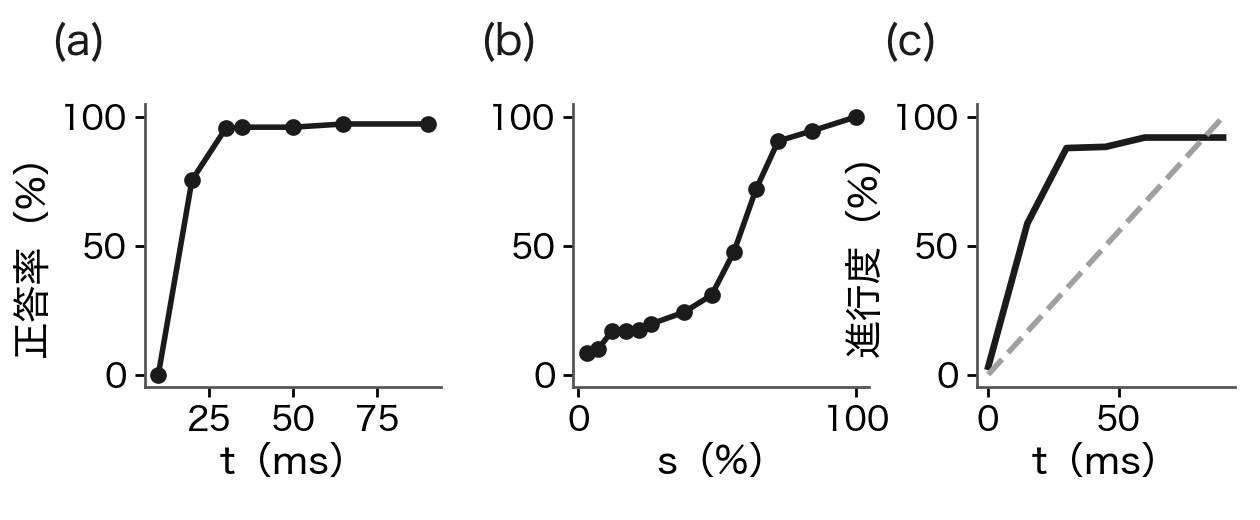
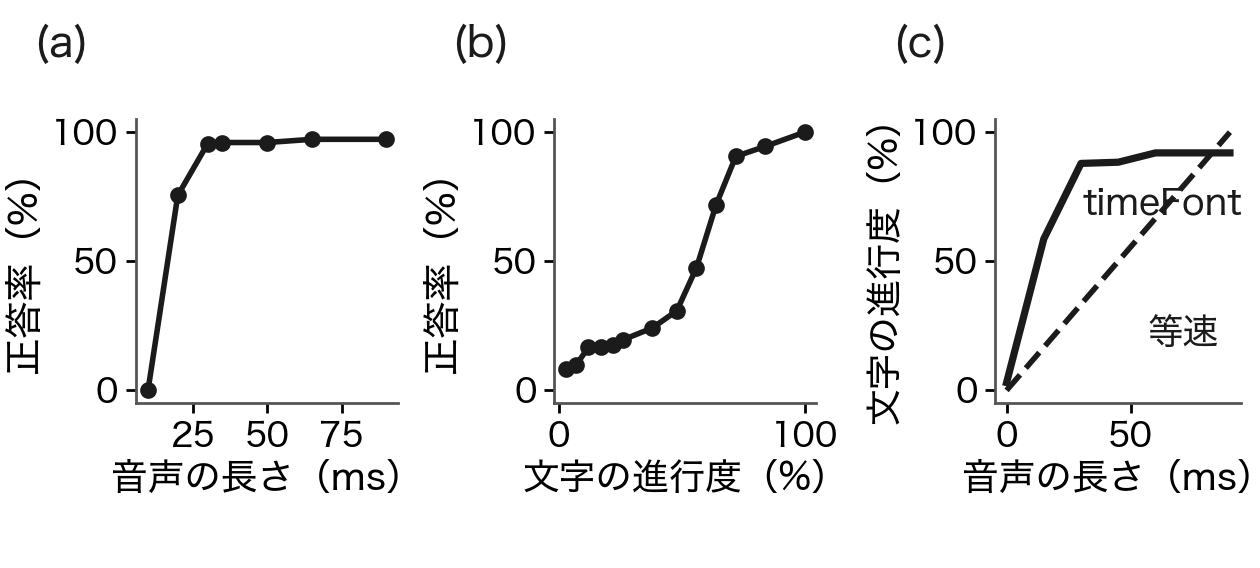
WISS 投稿版の図を作り直し、作業ログを更新
図1: 「システムの入出力」から「音声と文字の識別度合いを同じ高さで結ぶ」絵に変更。
  実測値（「ま」×ぼかし解除、音声 60 ms → 81% → 進行度 65%）。
図2: 縦横を入れ替え（横に 4 方式、縦に 5 段階）。コマを 0.47→0.61 インチに拡大し、
  画素を平滑化しない描画にして部分表示のザラザラが見えるようにした。
図3・図4: 灰色をやめて黒に統一。軸ラベルを日本語にし、線のラベルが線に重ならない位置へ。

WORKLOG に、先生のコメント 26 件への対応、章立ての組み替え、参考文献の整理、
docx を直すときのハマりポイント 7 件を記録した。

Claude-Session: https://claude.ai/code/session_015YDXeF6NSsLQicneScy5QN

diff --git a/WORKLOG.md b/WORKLOG.md
@@ -3,6 +3,90 @@
 > セッションをまたぐ作業状態の記録。プロジェクトの全履歴は `project/project_log_260723.md`、
 > セットアップと全体像は `project/handover_260723.md` を参照。
 
+## 2026-08-31〜09-01 WISS 2026 投稿版：先生のコメント対応・章立ての組み替え・図の作り直し
+
+### 現在の状態
+- **最新の原稿は `~/Desktop/timeFont：文字の識別過程をデザインできる動的フォントv15_k.docx`**（デスクトップ直下。
+  `Desktop/timeFont/` フォルダの中ではない）。先生が承諾・追記した版に、こちらの直しを重ねた状態。
+- 題名は **timeFont：文字の識別過程をデザインできる動的フォント**。柱（ヘッダ）と文書プロパティも同じにそろえた。
+- 章立ては先生と決めた流れに組み替え済み:
+  1 はじめに / 2 関連研究 / 3 timeFont とは / 4 timeFont を作るための測定 /
+  5 timeFont の作成 / 6 作成した timeFont の評価 / 7 使うためのツールと実装例 / 8 まとめと今後の展望
+- 参考文献は 15 件。引用のない文献・存在しない番号への参照ともにゼロ。
+- 図は 5 枚。出る順と番号が一致（図1 1章 / 図2 4.1 / 図3 5.4 / 図4 6章 / 図5 7.1）。
+
+### 次にやること
+- ページ数の確認と調整（丸山さんが対応中）。溢れる場合の縮め方:
+  図1 は下のコマ列を外すと 2.77→1.9 インチ、図2 は横並びに戻すと 3.92→2.6 インチ。
+- 片桐ほか（1986）の原文を開いて、本文の記述と一致するか確認（先生の指摘・未対応）。
+- デモ動画（`~/Desktop/timeFont_WISS_2026_動画.pptx` を作成中）。
+
+### やったこと（先生のコメント 26 件への対応）
+- **[2][4] 題名と用語**: 「識別過程に応じて変化する」→「識別過程をデザインできる」。
+  概要と 1 章も「見え方を時間とともに変えることで、文字の識別過程をデザインできる」に。
+  「本論文では、この時間変化を識別過程と呼ぶ」と定義であることを明示。
+- **[3] 1 章の書き出し**: かるたを先、ドラマ字幕を後に（丸山さんが自分で書き直し）。
+- **[23] 章の位置づけ**: 1 章の末尾に 2〜8 章で何をするかを追加。7 章冒頭に実験の目的を追加。
+- **[25] Thurstone Case V**: 削除していたものを戻し、Perez-Ortiz [10] を引いて
+  「どちらが選ばれたかの回数から 16 条件を 1 本の目盛りの上に並べ直す方法」と一言の説明を追加。
+  結果側にも「尺度値でも情報量にもとづく条件が上位に…」の 1 文を追加。
+- **[26] 8 章**: 「対応データを測るときに気をつける点は…」の段落を丸ごと削除。
+  8 章は「まとめと今後の展望」に。まとめ 1 段落＋展望 1 段落（丸山さんの原文をそのまま採用）。
+- **[8] 図2**: コマを 0.47→0.61 インチに拡大。画素を平滑化しない描画（`interpolation="nearest"`）に変更。
+  さらに縦横を入れ替え（横に 4 方式、縦に 5 段階）、左に進行の矢印。
+- **[9] MCP**: 「MCP サーバも用意しており、対話型 AI から…」（サーバとクライアントの向きを訂正）。
+- **[17][19] 数式**: 空の OMML（数式エディタの残骸）を削除。v2_k で失われていた
+  `A_i(t)` `V_i(s)` を v1_m から復元。数式は 9 個。
+- **[5][6][7][12][13][18][20][21][22][24]**: 用語と表記（目盛り→測った値、全長→最後まで、
+  各時点→各提示時点、群の記号 Acal/A′ を廃止、1 文字はカギカッコ、KL の説明追加）。
+
+### 図の作り直し
+- **図1**: 「システムの入出力」から「音声と文字の識別度合いを同じ高さで結ぶ」絵に全面変更。
+  上に音声（横軸 時間）、下に文字（横軸 進行度）、共通の縦軸「識別度合い」。
+  同じ 81% の高さを点線と縦の矢印で結び、下に進行度に沿ったコマ列（矢印つき、該当コマを太枠）。
+  実測値（「ま」×ぼかし解除、音声 60 ms → 81% → 進行度 65%）。スクリプト: `fig1_v5.py`（scratchpad）。
+- **図3・図4**: 灰色をやめて全部黒に。線は実線・破線・点線で見分ける。
+  軸ラベルを日本語に（音声の長さ／文字の進行度）。線のラベルが線に重ならない位置へ。
+  図4(c) の数字に「進行度」を付けた。スクリプト: `fig3_v2.py` `fig4_v2.py`（scratchpad）。
+
+### 組版
+- 変数 `t` `s` `c` を斜体に統一（5 か所が立体のままだった）。`A` `B` は一対比較の選択肢なので立体のまま。
+- 数字のフォントを Century（文書の標準）に統一。Times New Roman 指定が 128 か所あったので外した。
+  参考文献の項目は触っていない。
+
+### 参考文献
+- 引用のない **Coltheart (1980)** を削除し、[3]〜[17] を [2]〜[16] に繰り上げ。
+- **Liu and Lin (2021)** を削除。「後続モーラ『さ』を加えて第 1 モーラを切り出す」という
+  刺激作成法の根拠にならないため（先生の指摘）。[9]〜[16] を [8]〜[15] に繰り上げ。
+- 丸山・栗原（2026）に「印刷中．」を追記。
+- DOI の追記は見送り（行数が増えてページを圧迫するため）。
+
+### ハマりポイント
+1. **段落の文字位置は `track_edit.para_text()` で数える。** `secs.text()` は前後の空白を落とすため、
+   これを使って `edit.mark()` に渡すと位置がずれ、`[11]．` が `[110．` になる事故が起きた。
+2. **run の境目に挿入すると 2 回入る。** `edit.py` / `redo2.py` の `mark()` に `done` を持たせて修正済み
+   （「5.1 節の測定で5.1 節の測定で」のような二重挿入が出ていた）。
+3. **`<w:rPr>.*?</w:rPr>` は長距離を飛ぶ。** 非貪欲でも別の run の `</w:rPr>` まで届くことがあり、
+   13 万文字を巻き込んで XML が壊れた。`<w:rPr>(?:(?!</w:rPr>).)*</w:rPr>` と書くこと。
+4. **図のキャプションはフィールドコード。** 「図 SEQ 図 \* ARABIC 1．」なので
+   `swap_by_caption.py` の文字列一致では見つからない。`media/imageN.png` を直接指定した。
+5. **同じ図が 2 回書かれるのは正常。** `mc:Choice`（新しい Word 用）と `mc:Fallback`（古い Word 用）。
+   キャプションを直すときは両方直す。一方で v2_k にあった図5の重複（`image7.png` と `image70.png`）は
+   本物の重複だったので 1 組削除した。
+6. **本文の読み取りには漏れがある。** テキストボックスや図と同じ段落にある文
+   （7 章の結果、Perez-Ortiz の文献項目）は `simple_paragraphs()` で拾えない。
+   「7 章に結果がない」「文献 [11] が抜けている」と誤って報告した。PDF で確認して気づいた。
+   **本文の有無を判断するときは `pdftotext` で実物を見ること。**
+7. **Word で開いたまま書き込むと消える。** `~$` で始まるファイルの有無で開いているか確認してから書く。
+
+### コマンドと場所
+- 図の生成: `python3 fig1_v5.py` / `fig2_v4.py` / `fig3_v2.py` / `fig4_v2.py`
+  （すべて scratchpad。出力は `paper/fig1_system_1col.png` `tbl1_families.png` `fig2_curves.png` `fig4_targets.png`）
+- docx を直す道具（scratchpad）: `edit.py`（部分差分）/ `secs.py`（章と節に切る）/
+  `helper.py`（段落の削除・追加）/ `swap_by_caption.py`（図の差し替え）
+- 原稿の履歴: `Desktop/timeFont/` に v1_m〜v14_m、`Desktop/` 直下に v5・v15_k
+- push 済み: `g19922ma/iFont` の `maruyama/font-exploration`（19a4fb583、アプリと図 11 ファイル）
+
 ## 2026-08-28 情報量を目標にした warp 表（warp_v5_info）と見比べプレビュー
 
 ### 現在の状態
